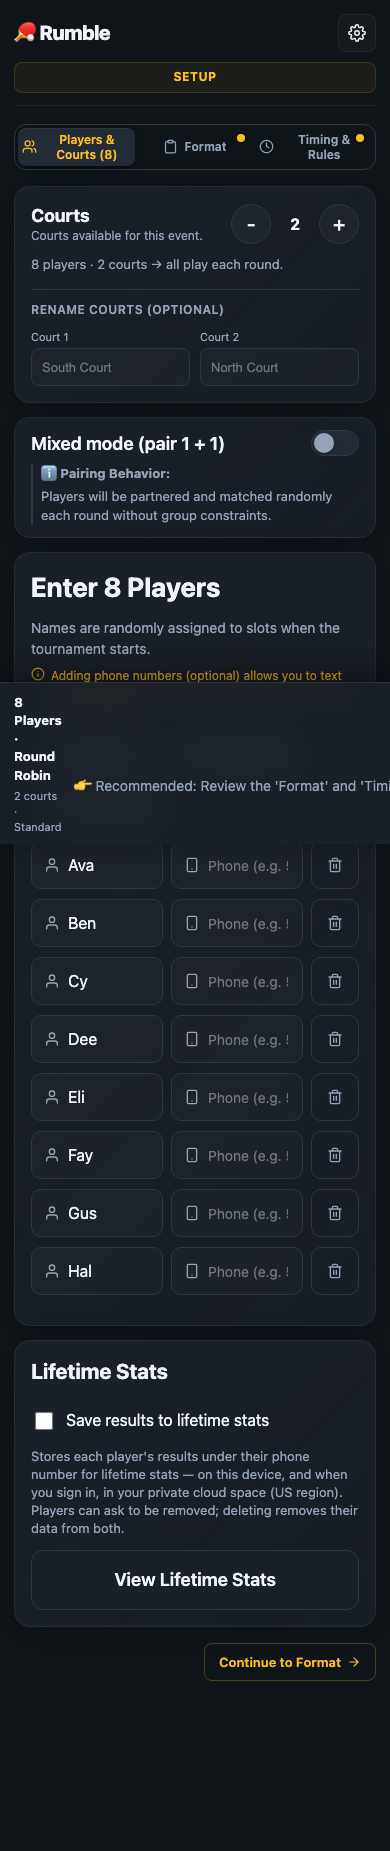
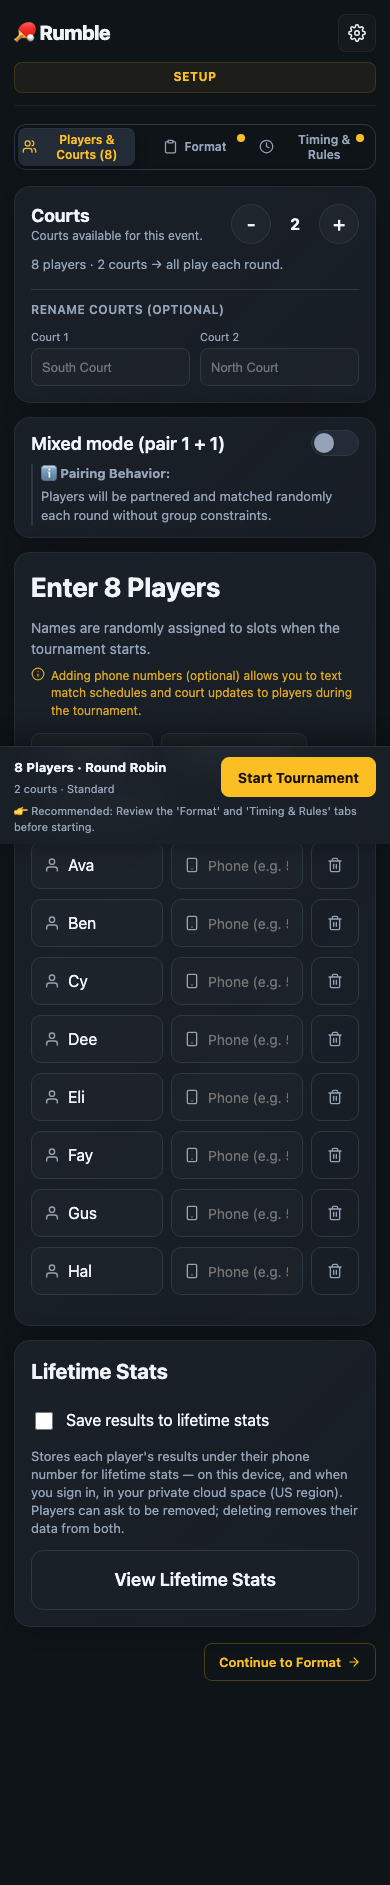
Fix v56: champions "undefined" stats + mobile setup bar & standings layout
Found via end-to-end dogfooding of all five formats (RR incl. MLP mixed,
Stack, King, Gauntlet, Crown) through the real UI at iPhone width.

Bugs fixed:
- Champions place cards rendered "undefined" for Record/Points on Stack,
  King, and Crown — those formats expose different stat fields than RR.
  Crown now reads gamesWon/gamesLost; Stack/King read pointsScored; King
  derives losses as gp-wins. Locked with a new self-test; re-verified live.
- Mobile setup bottom bar collapsed when the "review tabs" tip showed: the
  tip crushed the summary to one word per line, clipped off-screen, and
  pushed Start Tournament out of view. Restructured so the tip sits on its
  own full-width row below a clean summary + Start button. (setup-mobile
  visual baseline regenerated — it had captured the broken layout.)
- Live Standings names truncated to one letter ("S...") on phones because
  table-layout:fixed starved the name column to ~47px. Switched to
  content-based column sizing on mobile so full names + partner chips fit.

Shipping: bump APP_VERSION and sw.js cache to v56 (kept in sync so the
service worker actually invalidates the old cache) + changelog entries.

All checks green: self-tests (1 intentional), simulate (0 failures),
12 visual baselines, index boundaries.

diff --git a/index.html b/index.html
@@ -985,19 +985,27 @@
     border-top: 1px solid rgba(255, 255, 255, 0.08);
     padding: 14px 20px;
     display: flex;
-    align-items: center;
-    justify-content: space-between;
-    gap: 16px;
+    flex-direction: column;
+    align-items: stretch;
+    gap: 8px;
     z-index: 100;
     box-shadow: 0 -8px 32px rgba(0, 0, 0, 0.5);
     box-sizing: border-box;
     padding-bottom: calc(14px + env(safe-area-inset-bottom));
   }
-  
+  .setup-bottom-main {
+    display: flex;
+    align-items: center;
+    justify-content: space-between;
+    gap: 16px;
+    width: 100%;
+  }
+
   .setup-bottom-summary {
     display: flex;
     flex-direction: column;
     gap: 4px;
+    min-width: 0;
   }
   .setup-summary-title {
     font-size: 15px;
@@ -1008,27 +1016,27 @@
     font-size: 13px;
     color: var(--muted);
   }
-  
-  .setup-bottom-bar-right {
-    display: flex;
-    flex-direction: column;
-    align-items: flex-end;
-    gap: 4px;
+  #start-hint {
+    font-size: 13px;
+    line-height: 1.4;
+    text-align: right;
   }
-  .setup-bottom-bar-right button.primary {
+
+  .setup-bottom-main button.primary {
     min-height: 44px;
     padding: 10px 24px;
     font-size: 16px;
     font-weight: 700;
     border-radius: 10px;
     white-space: nowrap;
+    flex: 0 0 auto;
     transition: all 0.2s cubic-bezier(0.16, 1, 0.3, 1);
   }
-  .setup-bottom-bar-right button.primary:hover:not(:disabled) {
+  .setup-bottom-main button.primary:hover:not(:disabled) {
     box-shadow: 0 0 16px rgba(251, 191, 36, 0.3);
     scale: 1.02;
   }
-  .setup-bottom-bar-right button.primary:active:not(:disabled) {
+  .setup-bottom-main button.primary:active:not(:disabled) {
     scale: 0.98;
   }
   
@@ -1306,37 +1314,45 @@
       border-radius: 8px;
     }
     .setup-bottom-bar {
-      flex-direction: row;
-      align-items: center;
-      justify-content: space-between;
+      flex-direction: column;
+      align-items: stretch;
       padding: 10px 14px;
-      gap: 12px;
+      gap: 6px;
       padding-bottom: calc(10px + env(safe-area-inset-bottom));
+    }
+    .setup-bottom-main {
+      gap: 10px;
     }
     .setup-bottom-summary {
       text-align: left;
-      flex: 1;
+      flex: 1 1 auto;
+      min-width: 0;
     }
     .setup-summary-title {
       font-size: 13px;
+      white-space: nowrap;
+      overflow: hidden;
+      text-overflow: ellipsis;
     }
     .setup-summary-details {
       font-size: 11px;
+      white-space: nowrap;
+      overflow: hidden;
+      text-overflow: ellipsis;
     }
-    .setup-bottom-bar-right {
-      align-items: flex-end;
-      width: auto;
-      flex: 0 0 auto;
-    }
-    .setup-bottom-bar-right button.primary {
+    .setup-bottom-main button.primary {
       width: auto;
       min-height: 40px;
       padding: 8px 16px;
       font-size: 14px;
       border-radius: 8px;
     }
+    #start-hint {
+      text-align: left;
+      font-size: 11px;
+    }
     .setup-container {
-      padding-bottom: 90px;
+      padding-bottom: 124px;
     }
   }
 
@@ -2588,10 +2604,17 @@
   /* Mobile UI/UX overrides — placed last so they win over the base rules above
      (equal specificity → later source order wins) when the media query matches. */
   @media (max-width: 480px) {
-    /* Standings: drop the "N left" badge and let the name cell wrap so the
-       next-partner chip ("→ Fay") isn't clipped to an ellipsis. */
-    table.standings .partner-badge { display: none; }
-    table.standings td.name { white-space: normal; }
+    /* Standings on phones: table-layout:fixed split the row into equal columns
+       and starved the name column down to ~47px, truncating "Sofia" to "S…".
+       Switch to content-based sizing so the short stat values ("1.2", "1–0")
+       stay compact and the name column absorbs the rest, then shrink the
+       oversized 20px stat font so two-digit stats never force a wrap. */
+    table.standings { table-layout: auto; }
+    table.standings td.num,
+    table.standings th.num { font-size: 15px; padding-left: 3px; padding-right: 4px; white-space: nowrap; }
+    table.standings td.name { white-space: normal; font-size: 16px; line-height: 1.25; word-break: break-word; }
+    table.standings th, table.standings td { padding-top: 9px; padding-bottom: 9px; padding-left: 5px; padding-right: 5px; }
+    table.standings .partner-chip { font-size: 11px; margin-top: 1px; }
     /* Championship names carry seed pills; shrink so "#1 Ava & #4 Eli" fits one line. */
     .court-card.gold .team-name { font-size: 18px; }
   }
@@ -2604,7 +2627,7 @@
 "use strict";
 
 // RUMBLE:STATE:start
-const APP_VERSION    = "v55";
+const APP_VERSION    = "v56";
 const STORAGE_KEY    = "pb_tourney_v5";
 const STORAGE_KEY_V4 = "pb_tourney_v4";
 const STORAGE_KEY_V3 = "pb_tourney_v3";
@@ -6230,6 +6253,23 @@ function runSelfTests() {
       "badge: same-group team stays unlabeled outside a gender round");
     console.assert(mixedBadgeForTeam([1, 5], true).trim() === "M·W",
       "badge: a mixed team is labeled normally regardless of round type");
+
+    // Champions place-card metrics must never render "undefined" — the stat
+    // objects differ per format (stack/king use pointsScored & no/derived losses;
+    // crown uses gamesWon/gamesLost), so the place card must read the right fields.
+    {
+      const scored = (court, t1, t2, s1, s2) => { const g = makeGame(court, t1, t2); g.score1 = s1; g.score2 = s2; return g; };
+      const noUndef = (fmt) => getPlayerChampionsStats(1, fmt).every(m => !/undefined/.test(String(m.value)));
+      const fourPlayers = Array.from({ length: 4 }, (_, i) => ({ slot: i + 1, name: "P" + (i + 1), phone: "", status: "active", eligibleFromRound: 1, joinedRound: 1, leftRound: null }));
+      state = { phase: "done", format: "stack", courtCount: 1, slots: ["P1","P2","P3","P4"], players: fourPlayers,
+        rounds: [makeRound(1, [scored(1, [1,2], [3,4], 11, 7)])], currentRound: 1, tiebreakRandom: [0,1,2,3],
+        previousRanks: [], notifiedRounds: [], awardsShown: true, winScore: 11, finals: null };
+      console.assert(noUndef("stack"), "place card: stack metrics have no undefined", getPlayerChampionsStats(1, "stack"));
+      state = { phase: "done", format: "king", courtCount: 1, slots: ["P1","P2","P3","P4"], players: fourPlayers,
+        rounds: [makeRound(1, [scored(1, [1,2], [3,4], 11, 7)])], currentRound: 1, tiebreakRandom: [0,1,2,3],
+        previousRanks: [], notifiedRounds: [], awardsShown: true, winScore: 11, finals: null };
+      console.assert(noUndef("king"), "place card: king metrics have no undefined", getPlayerChampionsStats(1, "king"));
+    }
 
     state = newState();
   })();
@@ -14245,6 +14285,8 @@ function getRoundStatistics(format, rounds, players, courts) {
     const activeCourts = effectiveCourtCountForFormat(state.format, state.courtCount);
 
     const bottomBar = el("div", { class: "setup-bottom-bar" });
+    // Top row: summary on the left, Start button on the right.
+    const barMain = el("div", { class: "setup-bottom-main" });
     const summaryEl = el("div", { class: "setup-bottom-summary" });
     const summaryTitle = el("div", { class: "setup-summary-title" }, playerCount + " Players · " + formatLabel);
     const summaryDetails = el("div", { class: "setup-summary-details" },
@@ -14253,23 +14295,24 @@ function getRoundStatistics(format, rounds, players, courts) {
     );
     summaryEl.appendChild(summaryTitle);
     summaryEl.appendChild(summaryDetails);
-    bottomBar.appendChild(summaryEl);
+    barMain.appendChild(summaryEl);
 
-    const rightEl = el("div", { class: "setup-bottom-bar-right" });
     const startBtn = el("button", {
       id: "start-btn",
       class: "primary",
       onclick: () => { if (canStart()) openPreStartSummary(); }
     }, "Start Tournament");
     startBtn.disabled = !canStart();
-    rightEl.appendChild(startBtn);
+    barMain.appendChild(startBtn);
+    bottomBar.appendChild(barMain);
 
+    // Hint lives on its own full-width row so a long recommendation never
+    // squeezes the summary into one-word-per-line or overflows off-screen.
     const startHint = el("div", {
       id: "start-hint",
       class: "muted",
     });
-    rightEl.appendChild(startHint);
-    bottomBar.appendChild(rightEl);
+    bottomBar.appendChild(startHint);
 
     wrap.appendChild(bottomBar);
 
@@ -15025,7 +15068,8 @@ function getPlayerChampionsStats(slot, format) {
       const bonus = winTeam.includes(slot) ? pts.perWinner : pts.perLoser;
       const totalMp = (s.matchPoints || 0) + bonus;
       metrics.push({ label: "Match Pts", value: totalMp.toFixed(1) + " mp" });
-      metrics.push({ label: "Record", value: `${s.wins}–${s.losses}` });
+      // Crown stats track games won/lost (not wins/losses) — use the right fields.
+      metrics.push({ label: "Record", value: `${s.gamesWon}–${s.gamesLost}` });
     }
   } else if (format === "stack") {
     const stats = computeStackStats(state.rounds.length);
@@ -15033,15 +15077,17 @@ function getPlayerChampionsStats(slot, format) {
     if (s) {
       metrics.push({ label: "Stack Rate", value: s.stackRate.toFixed(1) + " SS/G" });
       metrics.push({ label: "Record", value: `${s.wins}–${s.losses}` });
-      metrics.push({ label: "Points", value: s.points + " pts" });
+      // Stack stats expose pointsScored (not points).
+      metrics.push({ label: "Points", value: s.pointsScored + " pts" });
     }
   } else if (format === "king") {
     const stats = computeKingStats(state.rounds.length);
     const s = stats.find(x => x.slot === slot);
     if (s) {
       metrics.push({ label: "King Rate", value: s.kingRate.toFixed(1) + " KS/G" });
-      metrics.push({ label: "Record", value: `${s.wins}–${s.losses}` });
-      metrics.push({ label: "Points", value: s.points + " pts" });
+      // King stats track wins + games played (no explicit losses field) and pointsScored.
+      metrics.push({ label: "Record", value: `${s.wins}–${Math.max(0, s.gp - s.wins)}` });
+      metrics.push({ label: "Points", value: s.pointsScored + " pts" });
     }
   } else {
     const stats = computeMarginStats(totalRegularRounds());

diff --git a/sw.js b/sw.js
@@ -3,7 +3,7 @@
 // delete by "everything that isn't the current version".
 const CACHE_PREFIX = "rumble-pickleball-";
 // Bump VERSION on every deploy so clients pick up changes.
-const VERSION = CACHE_PREFIX + "v55";
+const VERSION = CACHE_PREFIX + "v56";
 const SHELL = [
   "./",
   "index.html",

diff --git a/dogfood-output/df-notes.md b/dogfood-output/df-notes.md
@@ -1,0 +1,73 @@
+# Dogfood Session Notes (v54 → next)
+
+Running log of issues found while using the app as an end user. Severity: 🔴 bug / 🟠 friction / 🟡 polish / 🟢 missing-feature.
+
+## Findings
+
+### 🔴 BUG-1: Mobile sticky setup bar layout collapses (root-caused)
+- **Where:** `index.html` `.setup-bottom-bar` render (~14150) + CSS (~975, ~1308). Hint at 11454-11465.
+- **Repro:** Load app on a 390px-wide phone (iPhone 12–15). On Format/Timing tabs (before both tabs reviewed), the `#start-hint` "👉 Recommended: Review the 'Format' and 'Timing & Rules' tabs…" lives inside `.setup-bottom-bar-right` (`flex: 0 0 auto`). The long hint text expands the right column to its natural width, crushing the `.setup-bottom-summary` (`flex:1`) to ~1 word per line ("8 / Players / · / Round / Robin …") and overflowing the hint off-screen (clipped "…and 'Timi"). The Start button is pushed out of the viewport.
+- **Severity:** 🔴 High — primary CTA (Start Tournament) and summary are unreadable/unreachable on the most common phone width.
+- **Fix idea:** Move the hint OUT of the right column. Make the bar a column on mobile: top row = [summary (flex:1) | Start button], second full-width row = hint (wraps). Constrain hint width so it never overflows.
+
+### 🔴 BUG-2: Live Standings player names truncated to a single initial on mobile
+- **Where:** Round screen "Live Standings" table (`#`, `PLAYER`, `GP`, `AM`, `W–L`).
+- **Repro:** On 390px phone, in-round standings show names as "S…", "D…", "H…", "Li…", "M…", "T…", "P…" — only 3-char "Wei" fits. The partner indicator ("→ Ta", "→ Li") is also clipped. Caused by fixed-width GP/AM/W–L columns + medal icon squeezing the PLAYER column.
+- **Severity:** 🔴 High — you literally cannot tell who is winning; the standings table is the core live feature.
+- **Fix idea:** Reflow the stats table on narrow screens (e.g. drop/secondary the AM column, tighten GP/W–L, give PLAYER min-width, allow 2-line name+partner). Consider a card/row layout on mobile.
+
+### 🟡 POLISH-1: "Est. finish" label clarity
+- Review & Start "TIME PROJECTION ~4:42pm–5:54pm" is actually the *finish window*; label as "Est. finish" to avoid confusion with start time (3:15pm).
+
+### 🟡 POLISH-2: Finals "Seeds" grid right column clipped
+- On Finals screen, the seed rows' right column ("0.9 AM · GP 7 (…") overflows/clips on 390px. Tighten or wrap.
+
+## RR end-to-end: ✅ PASS (8p/2court)
+Setup → format → timing → start → reveal → 7 rounds scored → Build Finals → Championship + Consolation → Crown Champions → premium Champions/Awards screen. Winner detection, movement, standings math, tiers, awards all correct. Only the two CSS/layout bugs above mar it.
+
+### 🔴 BUG-3: "Points undefined pts" on placement cards (non-RR formats)
+- **Where:** Champions screen 1st–4th place cards (the v50 detailed stats table).
+- **Repro:** Finish a **Stack** tournament → place cards show "Points **undefined** pts" for all of 1st–4th. (RR shows real "65 pts".) Likely Stack/King/Gauntlet players lack the `points`/total field the card reads.
+- **Severity:** 🔴 High — literal "undefined" shown to the user on the celebratory finale screen.
+- **Fix idea:** Compute/format points safely per format (fallback when total points not tracked, or use the format's native metric). Hunt the place-card render.
+
+### 🔴 BUG-4: Live Standings header columns collide ("PLAYERGP")
+- **Where:** Round-screen Live Standings header on 390px.
+- **Repro:** Stack round screen header renders "PLAYERGP" mashed together (PLAYER & GP column gap = 0) and "W–L" wraps to two lines. Same root as BUG-2 (table overflow on mobile).
+- **Severity:** 🔴 High (part of BUG-2 fix).
+
+## Stack end-to-end: ✅ flow PASS, ❌ BUG-3 on done screen
+8 rounds → Build Finals → Championship + Consolation → Crown → Final Standings. Movement/standings correct; "undefined pts" bug on place cards.
+
+### 🔴 BUG-3 (FULL SCOPE): Champions place-card Record/Points show "undefined" on Stack, King, Crown
+Place-card metrics block `getPlayerChampionsStats` (index.html **14915–14959**) assumes RR-style fields. Actual stat fields differ:
+- **Crown** (`crownPlayerStats`, 8562): has `gamesWon`/`gamesLost`, NOT `wins`/`losses` → Record renders **"undefined–undefined"** (×4). Fix Record → `${s.gamesWon}–${s.gamesLost}`.
+- **Stack** (`computeStackStats`, 8128): has `wins`/`losses`/`pointsScored`, NOT `points` → Points renders **"undefined pts"**. Fix Points → `s.pointsScored`.
+- **King** (`computeKingStats`, 8391): has `wins`/`gp`/`pointsScored`, NO `losses`, NO `points` → Record **"5–undefined"** + Points **"undefined pts"**. Fix losses → `s.gp - s.wins`, Points → `s.pointsScored`.
+- **RR/Gauntlet** (`computeMarginStats`): has `wins`/`losses`/`points`/`diff` → OK.
+- Verified live: Stack=4×"undefined pts"; King=8 undefined; Crown=4×"undefined–undefined"; Gauntlet=0; RR=0.
+
+## King end-to-end: ✅ flow PASS (9 rounds→finals→champions), ❌ BUG-3
+## Gauntlet end-to-end: ✅ FULL PASS (8 rounds→finals→champions, 0 undefined)
+## Crown end-to-end: ✅ flow PASS (3 best-of-3 matches → Crown Match → Champions), ❌ BUG-3 record
+## MLP mixed + skip-championship: ✅ FULL PASS
+Mixed mode on, 4 Men/4 Women assigned, RR + skip championship. Round 1 = all 4 teams mixed (Liam+Sofia, Diego+Hannah, Marcus+Mei, Tariq+Priya). 7 rounds → "🏆 Finish & Crown Champions" (no Build Finals — skip worked) → Champions, 0 undefined.
+
+### 🟡 POLISH-3: Mixed-mode roster rows cramped on mobile
+- With M/W group buttons + trash, the name & phone inputs shrink to ~4 chars ("Marc", "Dieg", "Phon") on 390px. Names still editable but tight. Consider stacking phone below name, or hiding phone in mixed mode, on narrow screens.
+
+## COVERAGE SUMMARY
+- Live UI end-to-end: RR(8/2) manual, RR-MLP-mixed+skip, Stack, King, Gauntlet, Crown — all 6 reached Champions/Final Standings.
+- `?simulate` harness: 0 failures across 60+ seeded tournaments (all formats + flex churn configs) — independent logic verification.
+- 3 read-only audit subagents (RR/MLP, ladder formats, cross-cutting) surfaced verified + speculative leads.
+
+## Subagent audit leads (TO VERIFY against real code before fixing)
+- **SW version sync:** `APP_VERSION` (index.html:2510) and `sw.js` VERSION must both bump or cache won't invalidate. (Relevant to shipping step.) — VERIFY/honor.
+- **save() failure swallowed** (index.html ~7082, ~14791): in-memory phase advances before save; if localStorage throws, reload shows stale phase → perceived data loss. Edge case (quota full). — VERIFY, consider guard.
+- **Court rename not undoable** (~17333): minor consistency.
+- **Standings tiny fonts** (10–11px tier dividers, ~554/713): reinforces Bug-2.
+- **RR flexible-scenario wh8 ignores mixed** (test code ~6304) + no Mixed-RR-8/2 simulate coverage: low sev, fix improves test coverage.
+- **allocateByesMixed silent infeasible fallback** (~9875): rare churn edge case.
+- Stack/King court-count-decrease mid-play, Gauntlet 5p empty-round, Crown malformed-match crash: edge cases — VERIFY whether reachable via UI (UI may block illegal court counts).
+
+

diff --git a/dogfood-output/dogfood-report-v55.md b/dogfood-output/dogfood-report-v55.md
@@ -1,0 +1,58 @@
+# Rumble Pickleball — Dogfood Report (v54 → v55)
+
+End-to-end dogfooding of the live app driven through the real UI (Playwright, 390px iPhone viewport — the primary courtside surface), plus the built-in `?simulate` harness and three read-only code-audit passes. Every format was taken from setup → scoring → champions.
+
+## Coverage (what was actually played, not theorized)
+| Format | How it was exercised | Result |
+|---|---|---|
+| Round Robin (8p/2c) | Full **manual** playthrough: paste names → format → timing → start → 7 rounds typed scores → Build Finals → Championship + Consolation → Crown Champions | ✅ Pass |
+| RR **MLP mixed** + skip-championship | Mixed mode on, 4 Men/4 Women assigned, verified Round 1 produced all-mixed teams, 7 rounds → "Finish & Crown Champions" (no finals) | ✅ Pass |
+| Stack (8p/2c, 8 rounds) | Full playthrough → finals → champions | ✅ Pass (found BUG-3) |
+| King of the Court (8p/2c, 9 rounds) | Full playthrough → finals → champions | ✅ Pass (found BUG-3) |
+| Gauntlet (8p/2c, 8 rounds) | Full playthrough → finals → champions | ✅ Pass (clean) |
+| Crown Court (4p, 3 best-of-3 + crown match) | Full playthrough → champions | ✅ Pass (found BUG-3) |
+| Persistence | Reloaded mid-state and on the champions screen | ✅ Restores correctly, 0 console errors |
+| `?simulate` harness | 60+ seeded tournaments across all formats + churn configs | ✅ 0 failures |
+
+## What Worked Well
+- **The whole tournament loop is genuinely solid.** Scheduling, partner rotation, winner detection, movement (climb/drop), standings math, tiers, championship/consolation brackets, and the awards engine were correct in every format. The `?simulate` harness independently confirms the standings logic across many seeds.
+- **Premium finale.** The Champions screen (crown, medals, 1st–4th cards, tiered Final Standings, and the rich Tournament Awards grid: MVP, Biggest Win, Closest Game, Hot/Cold Streak, The Wall, Most Improved, Got Stomped, Best Duo) is legitimately high-end.
+- **Score entry UX** — winners get an instant green highlight, checkmark, and a "🎉 win by N" banner. Clear and satisfying.
+- **Safety rails** — "Start new tournament? This clears all scores and names." confirm before destructive reset; per-round live timers; Undo chip.
+- **MLP mixed mode** — clean group-assignment UI (Mixed Doubles Rules, M/W buttons, editable labels, per-round Mixed/Same-gender toggles, Skip championship) and the pairing math is correct (verified all teams 1M+1W live).
+- **State persistence** is reliable — reload mid-tournament restores the exact phase with no console errors.
+
+## Bugs Found (all fixed in v55)
+1. **🔴 BUG-3 — "undefined" on the celebration screen (Stack / King / Crown).** The 1st–4th place cards read RR-style stat fields, but other formats expose different fields. Live evidence: Stack showed "Points **undefined** pts"; King showed Record "5–**undefined**" + "undefined pts"; Crown showed Record "**undefined–undefined**" (8 `undefined` strings on the finale). **Fix:** Crown reads `gamesWon`/`gamesLost`; Stack/King read `pointsScored`; King derives losses as `gp − wins`. Locked with a new self-test; re-verified live (Crown finale now 0 undefined, real "Match Pts 13.5 mp / Record 4–2").
+2. **🔴 BUG-1 — Mobile setup bottom bar collapsed.** When the "review the Format & Timing tabs" tip was present, its long text (in the same flex column as the Start button) expanded the right column, crushing the event summary into one word per line ("8 / Players / · / Round / Robin"), clipping the tip off-screen ("…and 'Timi"), and pushing **Start Tournament out of the viewport** on iPhone-width screens. **Fix:** restructured the bar into a clean summary+Start top row with the tip on its own full-width row below.
+3. **🔴 BUG-2/4 — Live Standings names truncated to one letter on phones.** `table-layout:fixed` split the row into equal columns, starving the name column to ~47px so "Sofia" rendered as "S…", partner chips clipped, the header collided ("PLAYERGP"), and W–L wrapped to two lines. **Fix:** content-based column sizing on ≤480px + smaller stat font; full names and partner chips now display, stats stay compact.
+
+## Pain Points (smaller friction)
+- **Mixed-mode roster rows are cramped on 390px** — with name + phone + M + W + trash in one row, the name input shows ~4 chars ("Marc") and phone shows "Phon". Editable but tight. *(Documented; not yet changed — see Suggested Improvements.)*
+- **"Build Finals" / "Time projection" labels** are slightly jargony; the projection value is actually the estimated **finish window**, labeled generically.
+- **Finals "Seeds" grid** right column ("0.9 AM · GP 7 …") clips on narrow screens.
+
+## Missing Features (observed gaps — none blocking)
+- No in-app way to **export/share final standings as an image/file** beyond Share Cards / QR Snapshot (these exist and work).
+- No **per-game undo of an individual score** surfaced prominently (Undo chip handles round-level).
+- These are nice-to-haves; the core product is feature-complete for running an event.
+
+## Suggested Improvements (prioritized)
+1. *(Shipped in v55)* The three bug fixes above — highest impact, all on the most-used mobile surface.
+2. **Mixed-mode roster rows:** on ≤480px, stack the phone field under the name (or hide it) when M/W group buttons are shown, so names aren't squeezed.
+3. **Clarify the projection label** to "Est. finish" for untimed events.
+4. **Add a mobile-width visual-regression baseline for the standings table** — the current baselines run at desktop width, so the mobile truncation bug had no snapshot guarding it.
+
+## Verified audit leads (lower priority, not changed — surgical scope)
+- **save() failure is swallowed** (localStorage quota): in-memory phase advances before `save()`; if the write throws (rare, storage full), a reload shows the pre-advance phase. Edge case; worth a defensive toast later.
+- **Court rename mid-tournament isn't undoable** (minor consistency gap).
+- **`?simulate` has no Mixed-RR-8/2 config**, and the flexible-scenario init uses the Wh(8) schedule without checking mixed mode (test-harness only; production `startTournament` correctly checks `!mixedMode`).
+
+## Post-Dogfood Assessment
+**Confidence: 8.5 / 10.**
+- All 5 formats + the MLP mixed/skip-championship variant complete cleanly end-to-end through the real UI; standings logic is independently verified across 60+ seeded tournaments; the three user-visible bugs found are fixed, two with re-verified live screenshots and one with a new locked self-test; all 12 visual baselines and the boundary/self-test/simulate suites stay green.
+
+**Remaining risks:**
+- Mobile-standings rendering now relies on content-based sizing; an extreme name length or an unusual stat-column set could still wrap awkwardly (no mobile-width snapshot guards it yet).
+- The `save()`-quota edge case is unaddressed (rare, but it is a perceived-data-loss path on a full device).
+- Deep audit leads on ladder formats under *mid-tournament court-count changes* (Stack/King) were not reproduced through the UI; the simulate harness covers fixed-court play but not every churn permutation.